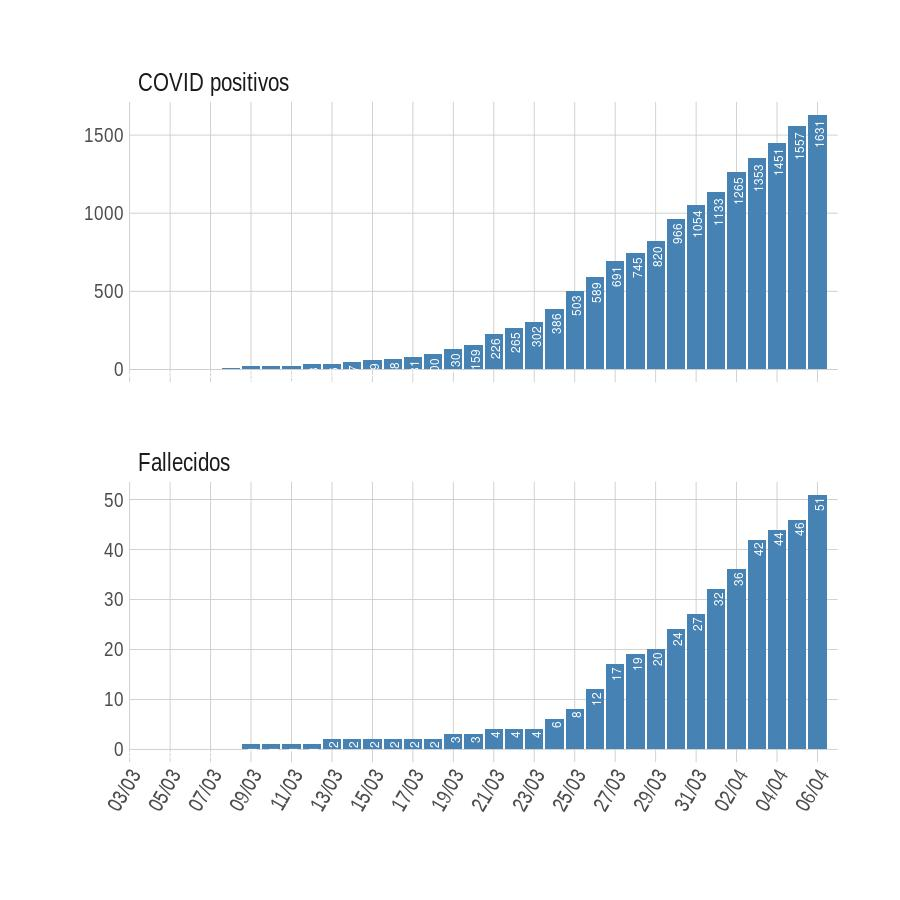
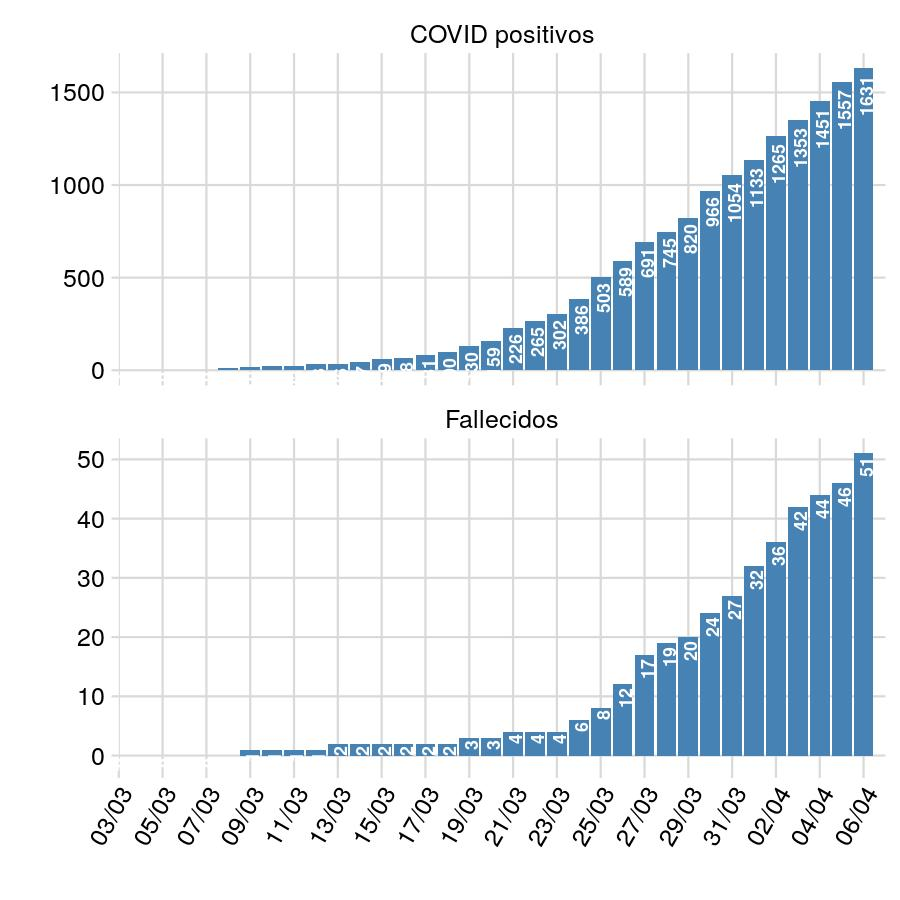
change theme

diff --git a/status_covid19.html b/status_covid19.html
@@ -304,45 +304,41 @@ $(document).ready(function () {
 <p>*Fuente de Datos</p>
 <p>COVID19 Global: <a href="https://github.com/CSSEGISandData/COVID-19">Johns Hopkins CSSE</a></p>
 <p>COVID19 Argentina: <a href="https://github.com/SistemasMapache/Covid19arData">Sistemas Mapache</a></p>
-<hr />
+<p>COVID19 Buenos Aires: <a href="https://www.gba.gob.ar/saludprovincia/boletin_epidemiologico">Ministerio de Salud de Buenos Aires</a></p>
 <p><br></p>
 <div id="status-covid19-global" class="section level1">
 <h1>Status COVID19 global</h1>
-<p>07 abr 2020</p>
-<p><br> <img src="plots/global_log.jpg" width="700px"> <br></p>
-<div id="factor-de-crecimiento" class="section level2">
-<h2>Factor de crecimiento</h2>
-<p>Medida del progreso diario de nuevos casos</p>
-<p><br> <img src="plots/global_GF.jpg" width="700px"> <br></p>
 <hr />
-</div>
-<div id="argentina-en-relación-a-los-paises-limitrofes" class="section level2">
-<h2>Argentina en relación a los paises limitrofes</h2>
-<ul>
-<li><p>Inicio de epidemia: 2020-03-02</p></li>
-<li><p>Duración de epidemia al 07 abr 2020: <em>35 días</em></p></li>
-</ul>
-<p><br> <img src="plots/p_latam.jpg" width="700px" heigth="800px"> <br></p>
-<p><img src="plots/latam_GF.jpg" width="700px"></p>
-<p><br></p>
-</div>
-<div id="status-covid19-argentina-al" class="section level2">
-<h2>Status COVID19 Argentina al</h2>
 <p>07 abr 2020</p>
-<p><br> <img src="plots/ARG_bars.jpg" width="600px" height="700px"> <br></p>
+<p><br> <img src="plots/global_log.jpg" width="600px" /> <br> <br> <br> <img src="plots/global_GF.jpg" width="600px" /> <br> <br> <br></p>
 </div>
+<div id="status-covid19-mercosur" class="section level1">
+<h1>Status COVID19 Mercosur</h1>
+<hr />
+<ul>
+<li>Inicio de epidemia: 2020-03-02</li>
+<li>Duración de epidemia al 07 abr 2020: <em>35 días</em></li>
+</ul>
+<p><br> <img src="plots/p_latam.jpg" width="600px" /> <br></p>
+<p><img src="plots/latam_GF.jpg" width="600px" /> <br> <br> <br></p>
+</div>
+<div id="status-covid19-argentina" class="section level1">
+<h1>Status COVID19 Argentina</h1>
+<hr />
+<p>07 abr 2020</p>
+<p><br> <img src="plots/ARG_bars.jpg" width="600px" /> <br> <br> <br></p>
 <div id="qué-modelo-ajusta-mejor-al-progreso-de-infectados-en-argentina" class="section level2">
 <h2>Qué modelo ajusta mejor al progreso de infectados en Argentina?</h2>
-<p><br> <img src="plots/models_ARG.jpg" width="600px"> <br></p>
+<p><br> <img src="plots/models_ARG.jpg" width="600px" /> <br></p>
 <p>Hasta el dia 21 del comienzo de la epidemia en Argentina ajustaba mejor el modelo exponencial, luego el modelo logístico es mejor que el exponencial.</p>
 <p><br></p>
 </div>
-<div id="status-covid19-en-sudeste-de-buenos-aires" class="section level2">
-<h2>Status COVID19 en Sudeste de Buenos Aires</h2>
-<p>Fuente: <a href="https://www.gba.gob.ar/saludprovincia/boletin_epidemiologico">Ministerio de Salud de Buenos Aires</a></p>
-<p>Semana epidemiológica 13 (21/03/20 al 28/03/20)</p>
-<p><img src="plots/mapa.jpg" width="500px"></p>
 </div>
+<div id="status-covid19---sudeste-de-buenos-aires" class="section level1">
+<h1>Status COVID19 - Sudeste de Buenos Aires</h1>
+<hr />
+<p>Semana epidemiológica 13 (21/03/20 al 28/03/20)</p>
+<p><img src="plots/mapa.jpg" width="600px" /></p>
 </div>
 
 
